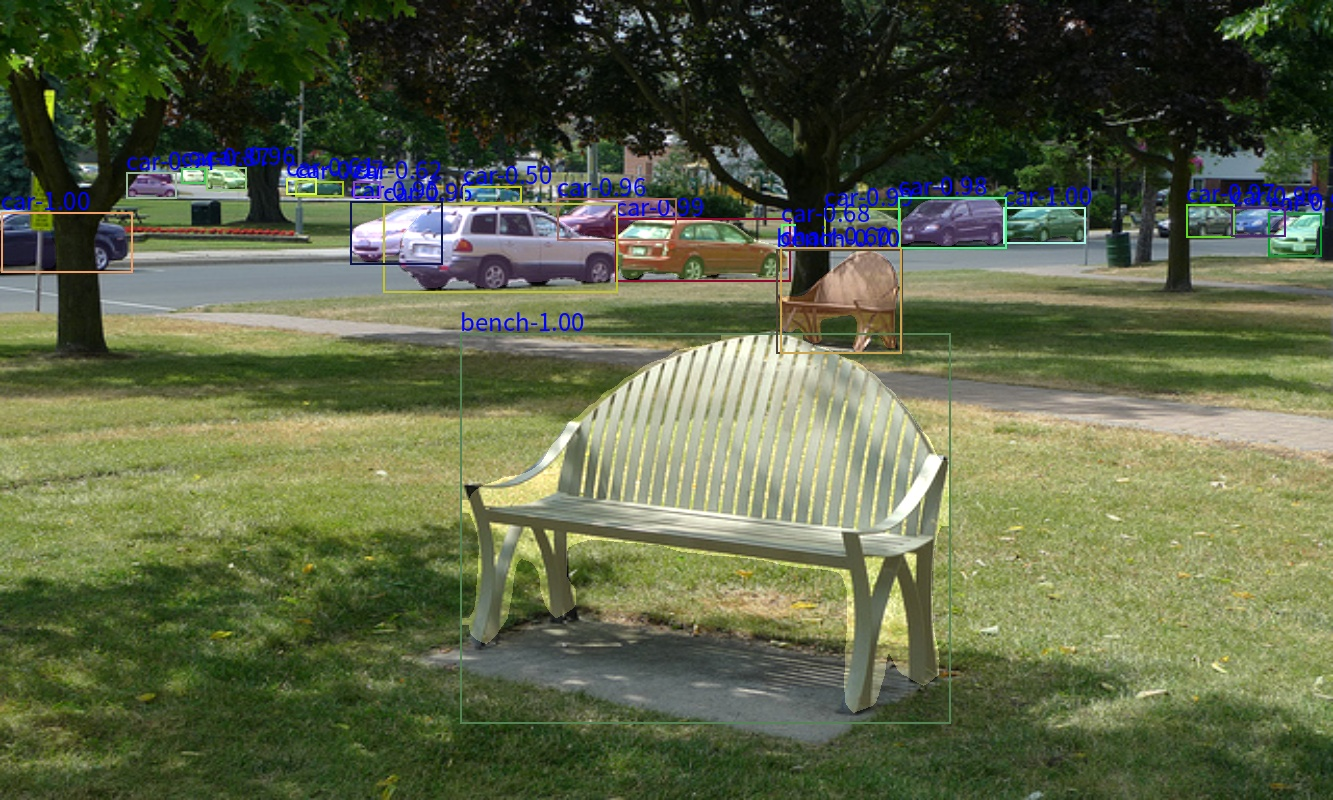
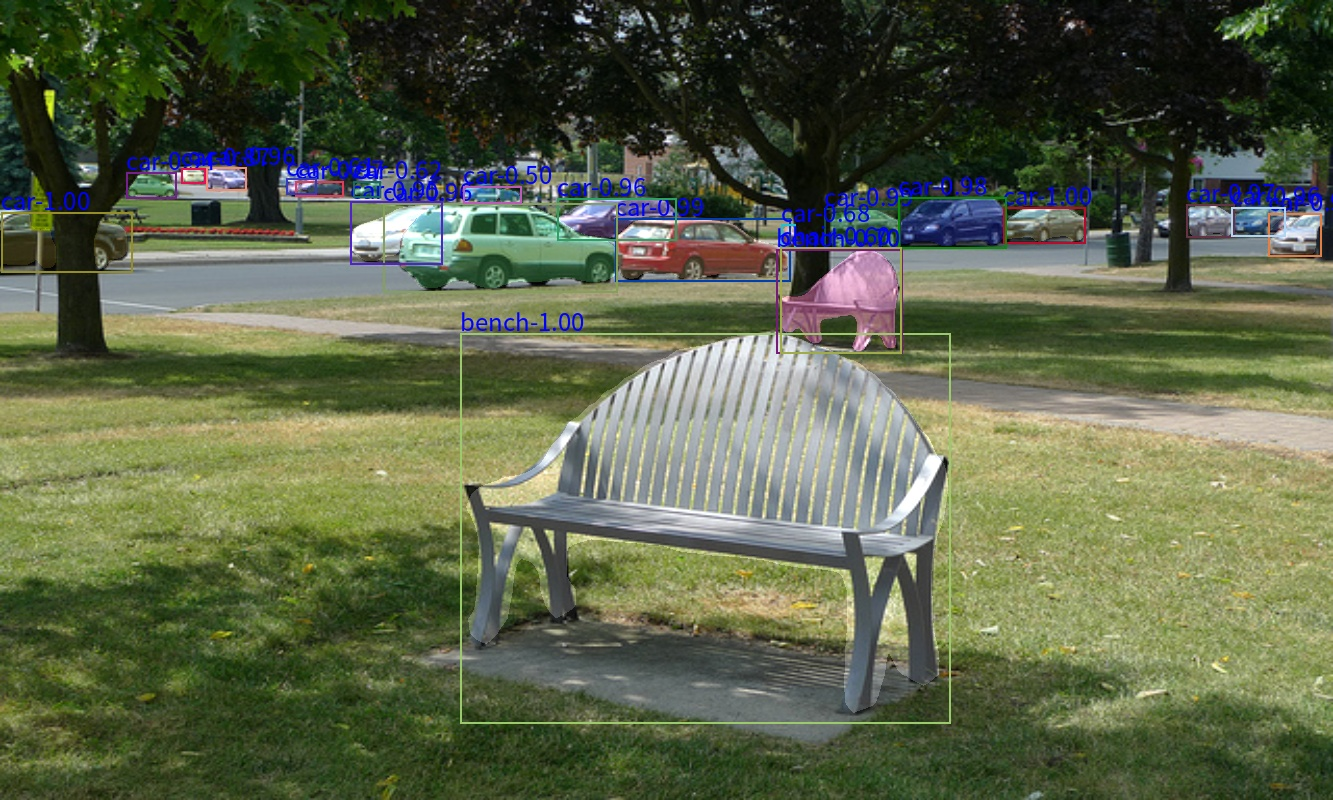
update

diff --git a/detect/utils_visualize.py b/detect/utils_visualize.py
@@ -5,6 +5,7 @@ import platform
 import cv2
 import numpy as np
 from PIL import Image, ImageFont, ImageDraw
+from skimage.transform import resize
 
 
 class Visualizer:
@@ -33,7 +34,8 @@ class Visualizer:
                               random.randint(0, 255))
 
                 mask = np.array(r['mask'], dtype=np.float32)
-                mask_resize = cv2.resize(mask, (w, h))
+                # mask_resize = cv2.resize(mask, (w, h))  # mode edge is not correct, do not use opencv to resize
+                mask_resize = resize(mask, (h, w), mode='constant', cval=0)
                 mask_resize[mask_resize < 0.5] = 0
                 mask_resize[mask_resize >= 0.5] = 255
 

diff --git a/inference_raw_mask.py b/inference_raw_mask.py
@@ -25,7 +25,7 @@ wrap_fp16_model(model)
 lock = Lock()
 pipeline = model.cfg.data.test.pipeline[1]
 
-target_shape = (3840, 2304)
+target_shape = (1333, 800)
 img = cv2.imread(image_path)
 img = cv2.resize(img, target_shape)
 model.cfg.data.test.pipeline[1].img_scale = target_shape
